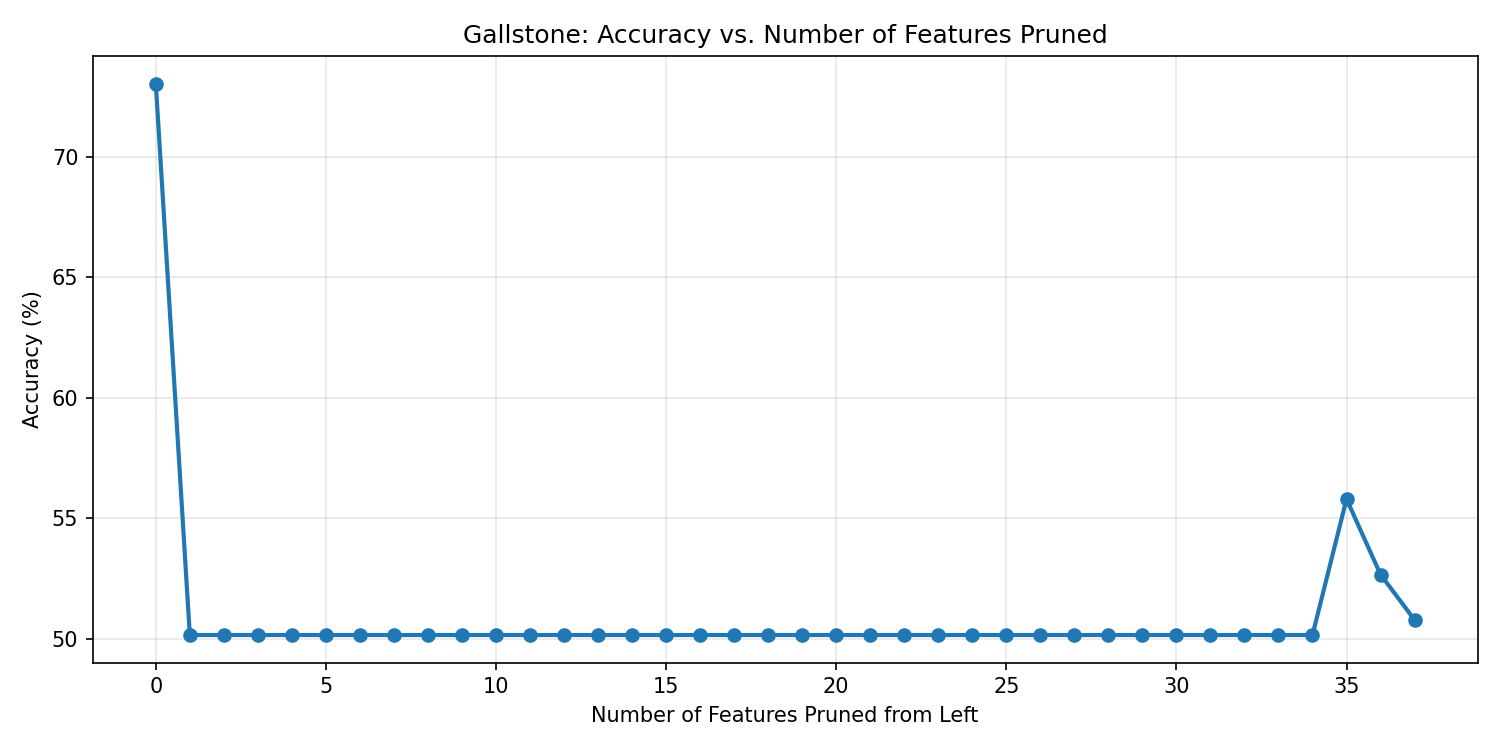
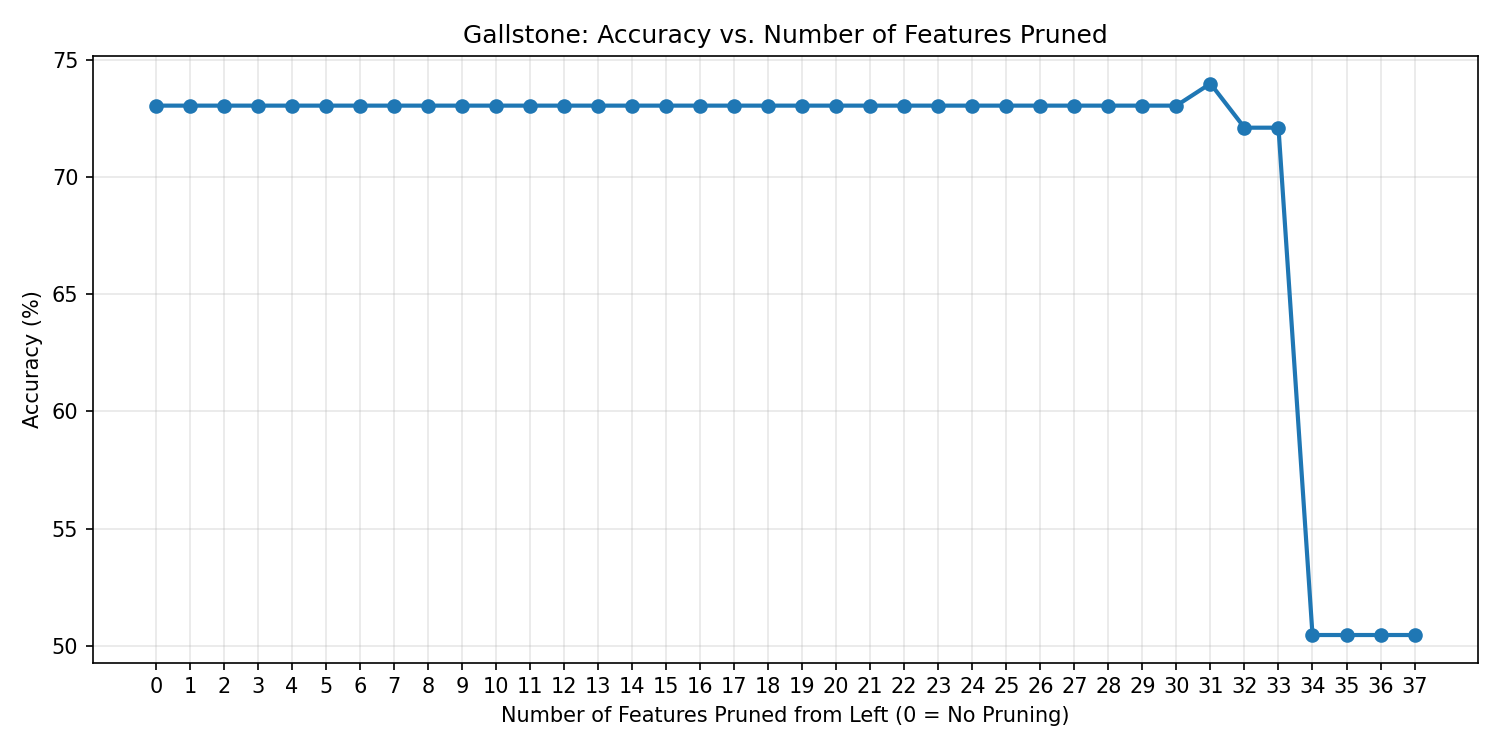
changing pruning

diff --git a/bacon/binaryTreeLogicNet.py b/bacon/binaryTreeLogicNet.py
@@ -105,6 +105,7 @@ class binaryTreeLogicNet(nn.Module):
         self.sinkhorn_iters = sinkhorn_iters  # Sinkhorn iteration count for convergence
         self.layer_outputs = None  # For storing layer outputs during forward pass
         self.combination_mode = combination_mode  # "none" or "cross"
+        self.pruned_aggregators = set()  # Track which aggregators have been pruned
         if combination_split is None:
             # default: split in half, e.g. 10/10 for 20D
             self.combination_split = input_size // 2
@@ -471,13 +472,17 @@ class binaryTreeLogicNet(nn.Module):
                         a = torch.sigmoid(bias) * 3-1
                     else:
                         a = bias
-                    if self.weight_mode == "fixed":
+                    
+                    # Check for pruning first, before fixed mode
+                    if i in self.pruned_aggregators:
+                        w = self.weights[i]  # Use pruned weights directly
+                    elif self.weight_mode == "fixed":
                         w = torch.tensor([self.weight_value,self.weight_value], dtype=torch.float32, device=self.device)
                     else:
+                        raw_w = self.weights[i]
                         if self.weight_normalization == "softmax":
-                            w = F.softmax(self.weights[i], dim=0)
+                            w = F.softmax(raw_w, dim=0)
                         elif self.weight_normalization == "minmax":
-                            raw_w = self.weights[i]
                             w_min = raw_w.min()
                             w_max = raw_w.max()
                             denom = w_max - w_min
@@ -493,7 +498,7 @@ class binaryTreeLogicNet(nn.Module):
                                 else:
                                     w = w / w_sum        
                         else:
-                            w = self.weights[i]                
+                            w = raw_w                
 
                     if i == 0:
                         left = node_outputs[0]
@@ -501,7 +506,15 @@ class binaryTreeLogicNet(nn.Module):
                     else:
                         left = node_outputs[-1]  # previous node
                         right = node_outputs[i + 1]  # next input
+                    
+                    # Debug: Log pruned aggregator behavior
+                    if i in self.pruned_aggregators and i < 3:
+                        print(f"   AGG{i}: left={left.mean().item():.3f}, right={right.mean().item():.3f}, w={w.tolist()}")
+                    
                     nres = self.aggregator.aggregate(left, right, a, w[0], w[1])
+                    
+                    if i in self.pruned_aggregators and i < 3:
+                        print(f"   AGG{i}: result={nres.mean().item():.3f}")
                     # TODO: this is dangerous if weights a nan. In general, we should figure out why nan is happening at the first place
                     if torch.isnan(nres).any():
                         nres = torch.where(torch.isnan(nres), bias, nres)
@@ -760,91 +773,38 @@ class binaryTreeLogicNet(nn.Module):
             return best_model, best_perm, best_loss, best_index
         
     def prune_features(self, features):
-        """Prune features from the left (least important) of the binary tree.
+        """Prune features from the left (least important) by adjusting weights.
 
-        WARNING: Pruning structurally changes the tree and causes accuracy degradation because:
-        - Aggregator 0 is trained to combine two raw inputs
-        - Other aggregators are trained to combine (aggregated_result + raw_input)
-        - After pruning, aggregators are used in contexts they weren't trained for
-        
-        For better feature importance analysis, consider masking features to zero instead.
+        Prunes the first N features by setting weights to bypass them:
+        - feature 0: set weight[0] = [0,1] (bypass left input in agg 0)
+        - feature 1: set weight[1] = [0,1] (bypass previous result in agg 1)
+        - feature k (k>=2): set weight[k] = [1,0] (bypass new input in agg k)
 
         Args:
-            features (int): Number of features to prune from the left.
-        Returns:
-            callable: Pruned forward function.
+            features (int): Number of features to prune from the left (0 to num_leaves-1).
         """
         if not self.is_frozen:
             raise RuntimeError("Model is not frozen. Can't prune features.")
-        if features >= self.num_leaves:
+        if features > self.num_leaves:
             raise ValueError(f"Cannot prune more features than leaves. {features} > {self.num_leaves}")
-
-        # When pruning K features from left, use aggregators starting at index K
-        # This aligns the remaining features with the rightmost part of the tree
+        
+        self.pruned_aggregators.clear()
+        
         if features == 0:
-            pruned_weights = self.weights
-            pruned_biases = self.biases
-        else:
-            pruned_weights = self.weights[features:]  # right-align: skip first K aggregators
-            pruned_biases = self.biases[features:]
+            return
 
-        def pruned_forward(x):
-            node_outputs = list(x.T)
-            layer_outputs = []
-            
-            # Edge case: if only 1 feature remains, no aggregation needed
-            if len(node_outputs) == 1:
-                return node_outputs[0].unsqueeze(1)
-            
-            # Number of aggregators needed = number of input features - 1
-            # Use only the required number of aggregators from pruned_weights/biases
-            num_aggregators_needed = len(node_outputs) - 1
-            
-            epsilon = 1e-6
-            for i in range(num_aggregators_needed):
-                if self.weight_mode == "fixed":
-                    w = torch.tensor([self.weight_value,self.weight_value], dtype=torch.float32, device=self.device)
+        with torch.no_grad():
+            # Prune all features from 0 to features-1
+            for k in range(features):
+                if k == 0:
+                    # Prune feature 0: bypass left input in agg 0
+                    self.weights[0].data = torch.tensor([0.0, 1.0], dtype=torch.float32, device=self.device)
+                    self.pruned_aggregators.add(0)
+                elif k == 1:
+                    # Prune feature 1: bypass left input (previous result) in agg 1
+                    self.weights[1].data = torch.tensor([0.0, 1.0], dtype=torch.float32, device=self.device)
+                    self.pruned_aggregators.add(1)
                 else:
-                    if self.weight_normalization == "softmax":
-                        w = F.softmax(pruned_weights[i], dim=0)
-                    elif self.weight_normalization == "minmax":
-                        raw_w = pruned_weights[i]
-                        w_min = raw_w.min()
-                        w_max = raw_w.max()
-                        denom = w_max - w_min
-
-                        if denom.item() == 0:
-                            # Both weights are equal — fallback to uniform weights
-                            w = torch.tensor([0.5, 0.5], device=self.device)
-                        else:
-                            w = (raw_w - w_min) / denom
-                            w_sum = w.sum()
-                            if w_sum.item() == 0:
-                                w = torch.tensor([0.5, 0.5], device=self.device)
-                            else:
-                                w = w / w_sum
-                    else:
-                        w = pruned_weights[i]              
-                
-                if self.normalize_andness:
-                    a = torch.sigmoid(pruned_biases[i])*3-1
-                else:
-                    a = pruned_biases[i]
-
-                # Mirror the normal forward logic
-                if i == 0:
-                    # First aggregator combines first two features
-                    left = node_outputs[0]
-                    right = node_outputs[1]
-                else:
-                    # Subsequent aggregators combine previous result with next feature
-                    left = node_outputs[-1]  # previous aggregation result
-                    right = node_outputs[i + 1]  # next feature
-                z = self.aggregator.aggregate(left, right, a, w[0], w[1])
-                node_outputs.append(z)
-                layer_outputs.append(z)
-            # final = torch.sigmoid(self.fc_out(layer_outputs[-1].unsqueeze(1)))
-            # return final
-            return layer_outputs[-1].unsqueeze(1)  # Remove the extra dimension
-
-        return pruned_forward
+                    # Prune feature k (k>=2): bypass right input (new feature) in agg k
+                    self.weights[k].data = torch.tensor([1.0, 0.0], dtype=torch.float32, device=self.device)
+                    self.pruned_aggregators.add(k)        

diff --git a/samples/gallstone/main.py b/samples/gallstone/main.py
@@ -131,7 +131,7 @@ X_test = torch.tensor(X_test_np, dtype=torch.float32).to(device)
 freeze_loss_threshold = 0.07
 aggregator = 'lsp.half_weight' 
 weight_mode = 'fixed'
-acceptance_threshold = 0.90
+acceptance_threshold = 0.75
 weight_penalty_strength = 1e-3
 
 # Update input size based on features
@@ -230,39 +230,87 @@ with torch.no_grad():
     baseline_accuracy = ((baseline_output > 0.5).float() == Y_all).float().mean().item()
 
 accuracies = [baseline_accuracy]
-accuracy_drops = []
-feature_contributions = []
 
+# Save original weights to restore between tests
+import copy
+original_weights = [w.data.clone() for w in bacon.assembler.weights]
+
+# Cumulative pruning: prune 0, then 1, then 2, ... features (up to num_features - 1)
 for i in range(1, num_features):
-    func_eval = bacon.prune_features(i)
-    kept_indices = bacon.assembler.locked_perm[i:].tolist()
-    removed_feature_idx = bacon.assembler.locked_perm[i - 1].item()
-    X_all_pruned = X_all[:, kept_indices]
+    # Restore original weights before each pruning test
+    for j, w in enumerate(bacon.assembler.weights):
+        w.data.copy_(original_weights[j])
+    bacon.assembler.pruned_aggregators.clear()  # Clear pruning flags
+    
+    # Apply cumulative pruning for first i features
+    bacon.assembler.prune_features(i)
     
     with torch.no_grad():
-        pruned_output = func_eval(X_all_pruned)
-        # Use threshold=0.5 consistently throughout pruning analysis
+        pruned_output = bacon.assembler(X_all)
         pruned_accuracy = ((pruned_output > 0.5).float() == Y_all).float().mean().item()
         accuracies.append(pruned_accuracy)
-        drop = accuracies[i - 1] - pruned_accuracy
-        accuracy_drops.append(drop)
-        feature_contributions.append((removed_feature_idx, drop))
         print(f"✅ Accuracy after pruning {i} feature(s): {pruned_accuracy * 100:.2f}%")
 
+# Individual feature importance: measure impact of removing each feature independently
+print("\n📊 Individual Feature Importance (measured independently):")
+feature_contributions = []
+
+for i in range(num_features):
+    # Restore original weights
+    for j, w in enumerate(bacon.assembler.weights):
+        w.data.copy_(original_weights[j])
+    bacon.assembler.pruned_aggregators.clear()
+    
+    # Prune only this one feature (at position i in the permutation)
+    feature_idx = bacon.assembler.locked_perm[i].item()
+    
+    # Can only prune features that have corresponding aggregators (0 to num_features-2)
+    if i >= len(bacon.assembler.weights):
+        # Last feature has no aggregator, skip it
+        print(f"  Feature {i} ({feature_names[feature_idx]}) has no aggregator to prune")
+        feature_contributions.append((feature_idx, 0.0))
+        continue
+    
+    # Temporarily prune just this feature by manipulating the pruning logic
+    with torch.no_grad():
+        if i == 0:
+            bacon.assembler.weights[0].data = torch.tensor([0.0, 1.0], dtype=torch.float32, device=device)
+            bacon.assembler.pruned_aggregators.add(0)
+        elif i == 1:
+            bacon.assembler.weights[1].data = torch.tensor([0.0, 1.0], dtype=torch.float32, device=device)
+            bacon.assembler.pruned_aggregators.add(1)
+        else:
+            bacon.assembler.weights[i].data = torch.tensor([1.0, 0.0], dtype=torch.float32, device=device)
+            bacon.assembler.pruned_aggregators.add(i)
+    
+    with torch.no_grad():
+        pruned_output = bacon.assembler(X_all)
+        pruned_accuracy = ((pruned_output > 0.5).float() == Y_all).float().mean().item()
+        drop = baseline_accuracy - pruned_accuracy
+        feature_contributions.append((feature_idx, drop))
+
+# Sort by importance (biggest drop = most important)
 sorted_contributions = sorted(feature_contributions, key=lambda x: x[1], reverse=True)
 
-print("\n📊 Feature contributions (sorted by accuracy drop):")
 for idx, drop in sorted_contributions:
     relevance = "❌ Low impact" if drop <= 0 else ("🔥 Critical" if drop > 0.05 else "✓ Important")
     print(f"  {feature_names[idx]:25s}: accuracy drop = {drop * 100:.2f}% {relevance}")
 
+# Restore original weights after all pruning tests
+for j, w in enumerate(bacon.assembler.weights):
+    w.data.copy_(original_weights[j])
+bacon.assembler.pruned_aggregators.clear()
+
 # Plot accuracy vs. pruning
 plt.figure(figsize=(10, 5))
-plt.plot(range(len(accuracies)), [a * 100 for a in accuracies], marker='o', linewidth=2)
+# X-axis: 0 = no pruning, 1 = 1 feature pruned, etc.
+x_values = list(range(len(accuracies)))
+plt.plot(x_values, [a * 100 for a in accuracies], marker='o', linewidth=2)
 plt.title("Gallstone: Accuracy vs. Number of Features Pruned")
-plt.xlabel("Number of Features Pruned from Left")
+plt.xlabel("Number of Features Pruned from Left (0 = No Pruning)")
 plt.ylabel("Accuracy (%)")
 plt.grid(True, alpha=0.3)
+plt.xticks(x_values)  # Show all tick marks
 plt.tight_layout()
 plt.savefig('gallstone_pruning.png', dpi=150)
 plt.show()

diff --git a/samples/heart-disease/main.py b/samples/heart-disease/main.py
@@ -152,7 +152,7 @@ X_test = torch.tensor(X_test_np, dtype=torch.float32).to(device)
 freeze_loss_threshold = 0.07
 aggregator = 'lsp.half_weight' 
 weight_mode = 'fixed'
-acceptance_threshold = 1.0
+acceptance_threshold = 0.80
 weight_penalty_strength = 1e-3
 
 # Update input size based on encoded features
@@ -246,25 +246,38 @@ print("\n" + "="*60)
 print("FEATURE IMPORTANCE ANALYSIS")
 print("="*60)
 
-accuracies = [best_score_accuracy]
+# Use consistent threshold=0.5 for baseline and pruning analysis
+with torch.no_grad():
+    baseline_output = bacon.assembler(X_all)
+    baseline_accuracy = ((baseline_output > 0.5).float() == Y_all).float().mean().item()
+
+accuracies = [baseline_accuracy]
 accuracy_drops = []
 feature_contributions = []
 
+# Save original weights to restore between tests
+import copy
+original_weights = [w.data.clone() for w in bacon.assembler.weights]
+
 # Prune based on actual number of features after one-hot encoding
 for i in range(1, num_features):
-    func_eval = bacon.prune_features(i)
-    kept_indices = bacon.assembler.locked_perm[i:].tolist()
+    # Restore original weights before each pruning test
+    for j, w in enumerate(bacon.assembler.weights):
+        w.data.copy_(original_weights[j])
+    bacon.assembler.pruned_aggregators.clear()  # Clear pruning flags
+    
+    # Apply pruning for first i features
+    bacon.assembler.prune_features(i)
     removed_feature_idx = bacon.assembler.locked_perm[i - 1].item()
-    X_all_pruned = X_all[:, kept_indices]
     
     with torch.no_grad():
-        pruned_output = func_eval(X_all_pruned)
-        pruned_accuracy = (pruned_output.round() == Y_all).float().mean().item()
+        pruned_output = bacon.assembler(X_all)
+        pruned_accuracy = ((pruned_output > 0.5).float() == Y_all).float().mean().item()
         accuracies.append(pruned_accuracy)
-        drop = accuracies[i - 1] - pruned_accuracy
+        drop = baseline_accuracy - pruned_accuracy  # Compare to baseline, not previous iteration
         accuracy_drops.append(drop)
         feature_contributions.append((removed_feature_idx, drop))
-        print(f"✅ Accuracy after pruning {i} feature(s): {pruned_accuracy * 100:.2f}%")
+        print(f"✅ Accuracy after pruning {i} feature(s): {pruned_accuracy * 100:.2f}% (drop: {drop * 100:.2f}%)")
 
 sorted_contributions = sorted(feature_contributions, key=lambda x: x[1], reverse=True)
 
